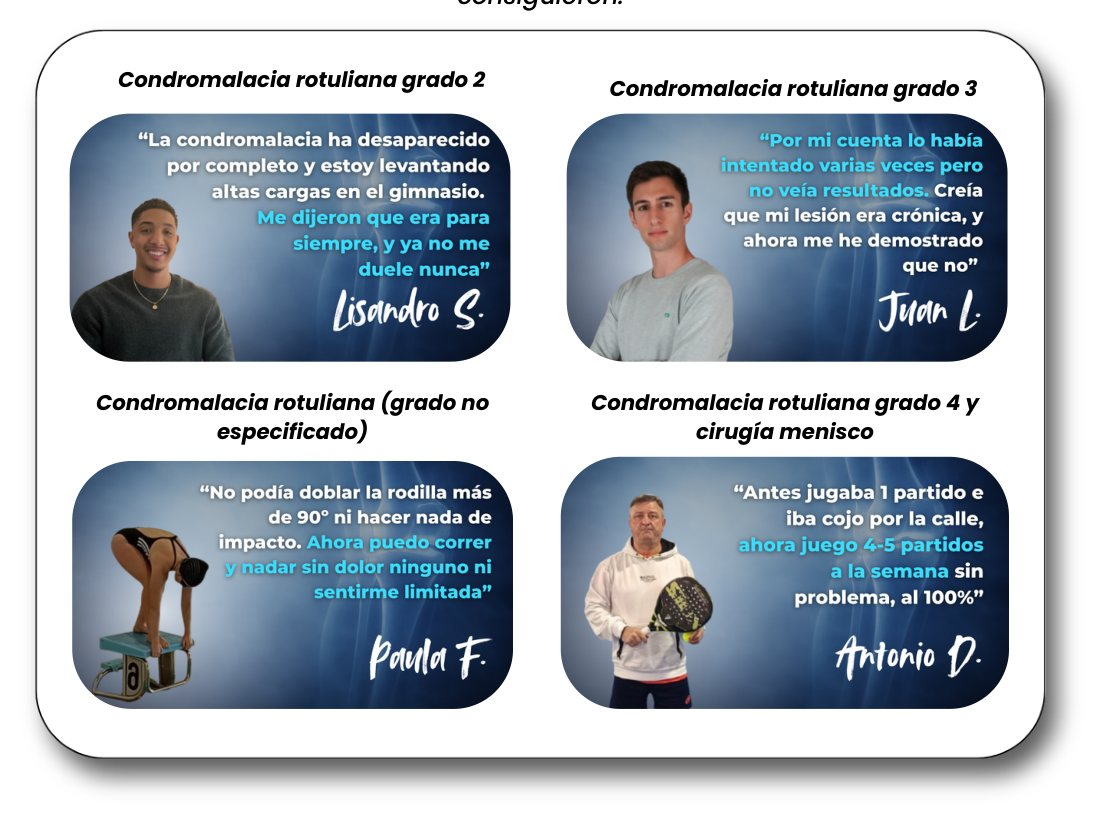
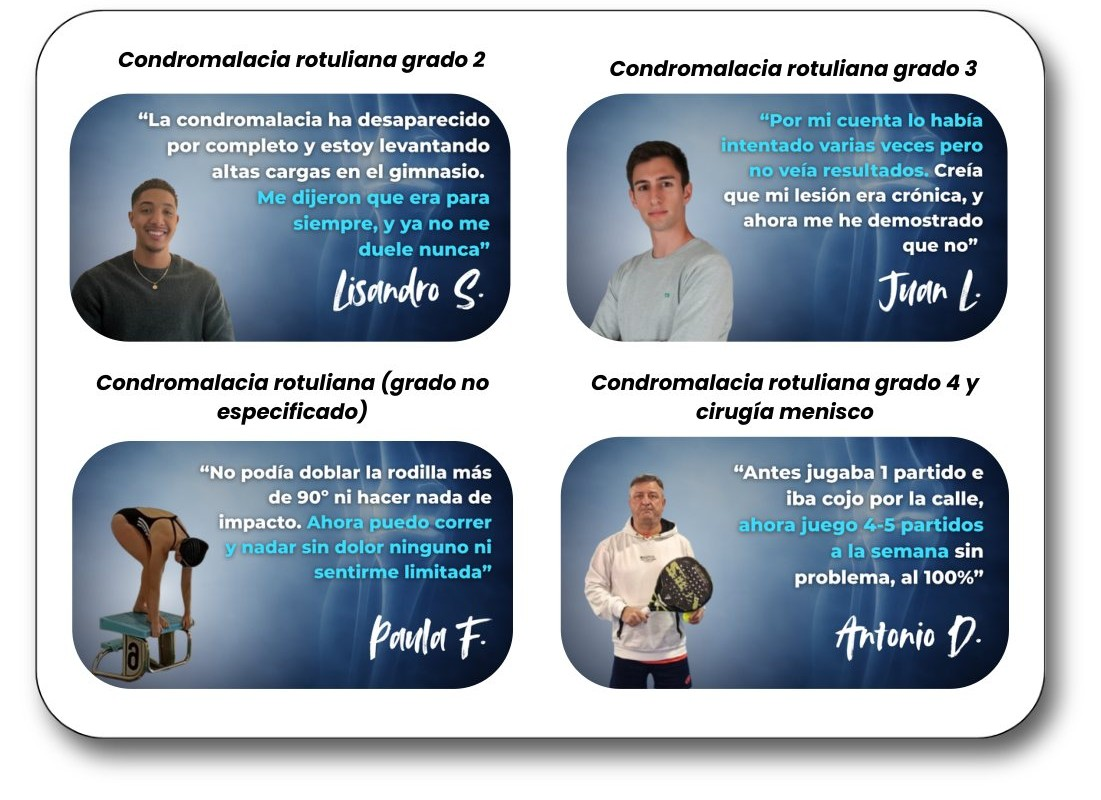
Todos los textos centrados; LM9 imagen de historias sin resto de texto

diff --git a/lm9-impacta-sin-miedo/index.html b/lm9-impacta-sin-miedo/index.html
@@ -72,7 +72,7 @@
 <h3 class="lm-h3d"><strong>Impactos sin dolor</strong></h3>
 <p>Las personas que vas a ver a continuación, han pasado por esta situación. Les prohibieron por completo saltar, correr o “forzar” su rodilla, pero ellos no aceptaron el destino que estaban intentando implantarles.</p>
 <p><em>Pincha en cada imagen y </em><em><strong>mira el vídeo de 3 minutos</strong></em><em> donde te explican cómo lo consiguieron.</em></p>
-<figure class="lm-fig lm-mont"><img loading="lazy" decoding="async" src="img-04.jpg" width="1101" height="820" alt="" /><a class="lm-hit" style="left:50.92%;top:55.69%;width:40.7%;height:30.71%" href="https://youtu.be/gQ9tpHwMOZ8" target="_blank" rel="noopener noreferrer" aria-label="Ver vídeo"><span class="lm-hit-play">▶</span></a><a class="lm-hit" style="left:6.27%;top:13.79%;width:40.04%;height:30.36%" href="https://youtu.be/kCxxMMbi6jI" target="_blank" rel="noopener noreferrer" aria-label="Ver vídeo"><span class="lm-hit-play">▶</span></a><a class="lm-hit" style="left:6.5%;top:56.2%;width:40.04%;height:30.36%" href="https://youtu.be/Hn6jpgvR6G4" target="_blank" rel="noopener noreferrer" aria-label="Ver vídeo"><span class="lm-hit-play">▶</span></a><a class="lm-hit" style="left:51.46%;top:13.79%;width:40.04%;height:30.36%" href="https://youtu.be/T9TDF6AtyIs" target="_blank" rel="noopener noreferrer" aria-label="Ver vídeo"><span class="lm-hit-play">▶</span></a></figure>
+<figure class="lm-fig lm-mont"><img loading="lazy" decoding="async" src="img-04.jpg" width="1101" height="800" alt="" /><a class="lm-hit" style="left:50.92%;top:54.58%;width:40.7%;height:31.48%" href="https://youtu.be/gQ9tpHwMOZ8" target="_blank" rel="noopener noreferrer" aria-label="Ver vídeo"><span class="lm-hit-play">▶</span></a><a class="lm-hit" style="left:6.27%;top:11.63%;width:40.04%;height:31.12%" href="https://youtu.be/kCxxMMbi6jI" target="_blank" rel="noopener noreferrer" aria-label="Ver vídeo"><span class="lm-hit-play">▶</span></a><a class="lm-hit" style="left:6.5%;top:55.11%;width:40.04%;height:31.12%" href="https://youtu.be/Hn6jpgvR6G4" target="_blank" rel="noopener noreferrer" aria-label="Ver vídeo"><span class="lm-hit-play">▶</span></a><a class="lm-hit" style="left:51.46%;top:11.63%;width:40.04%;height:31.12%" href="https://youtu.be/T9TDF6AtyIs" target="_blank" rel="noopener noreferrer" aria-label="Ver vídeo"><span class="lm-hit-play">▶</span></a></figure>
 <p><em>No es magia, simplemente hicieron una buena progresión de impactos que les permitió eliminar su dolor, y volver a correr y saltar sin miedo.</em></p>
 <h3 class="lm-h3d"><strong>¿Quieres eliminar el dolor, volver a introducir impacto, y dejar de sentirte como una persona de 20 años más?</strong></h3>
 <p><em>Al igual que hicimos con ellos, a ti también podemos ayudarte a conseguir todo eso con nuestro sistema en 5 fases.</em></p>

diff --git a/lm.css b/lm.css
@@ -173,3 +173,11 @@
 .lm-doc .lm-cierre { margin: 44px auto 0; padding: 28px 28px 30px; }
 .lm-doc .lm-cierre p:first-child { margin-top: 0; }
 .lm-doc .lm-cierre p:last-child { margin-bottom: 0; }
+
+/* Todos los textos centrados */
+.lm-doc { text-align: center; }
+.lm-doc .lm-ig { text-align: left; }
+.lm-lista li { padding-left: 0; }
+.lm-lista li::before { position: static; display: inline-block; vertical-align: middle; margin-right: 10px; }
+.lm-lista li.chk::before { width: 13px; height: 13px; }
+.lm-lista li::before { top: auto; left: auto; }
